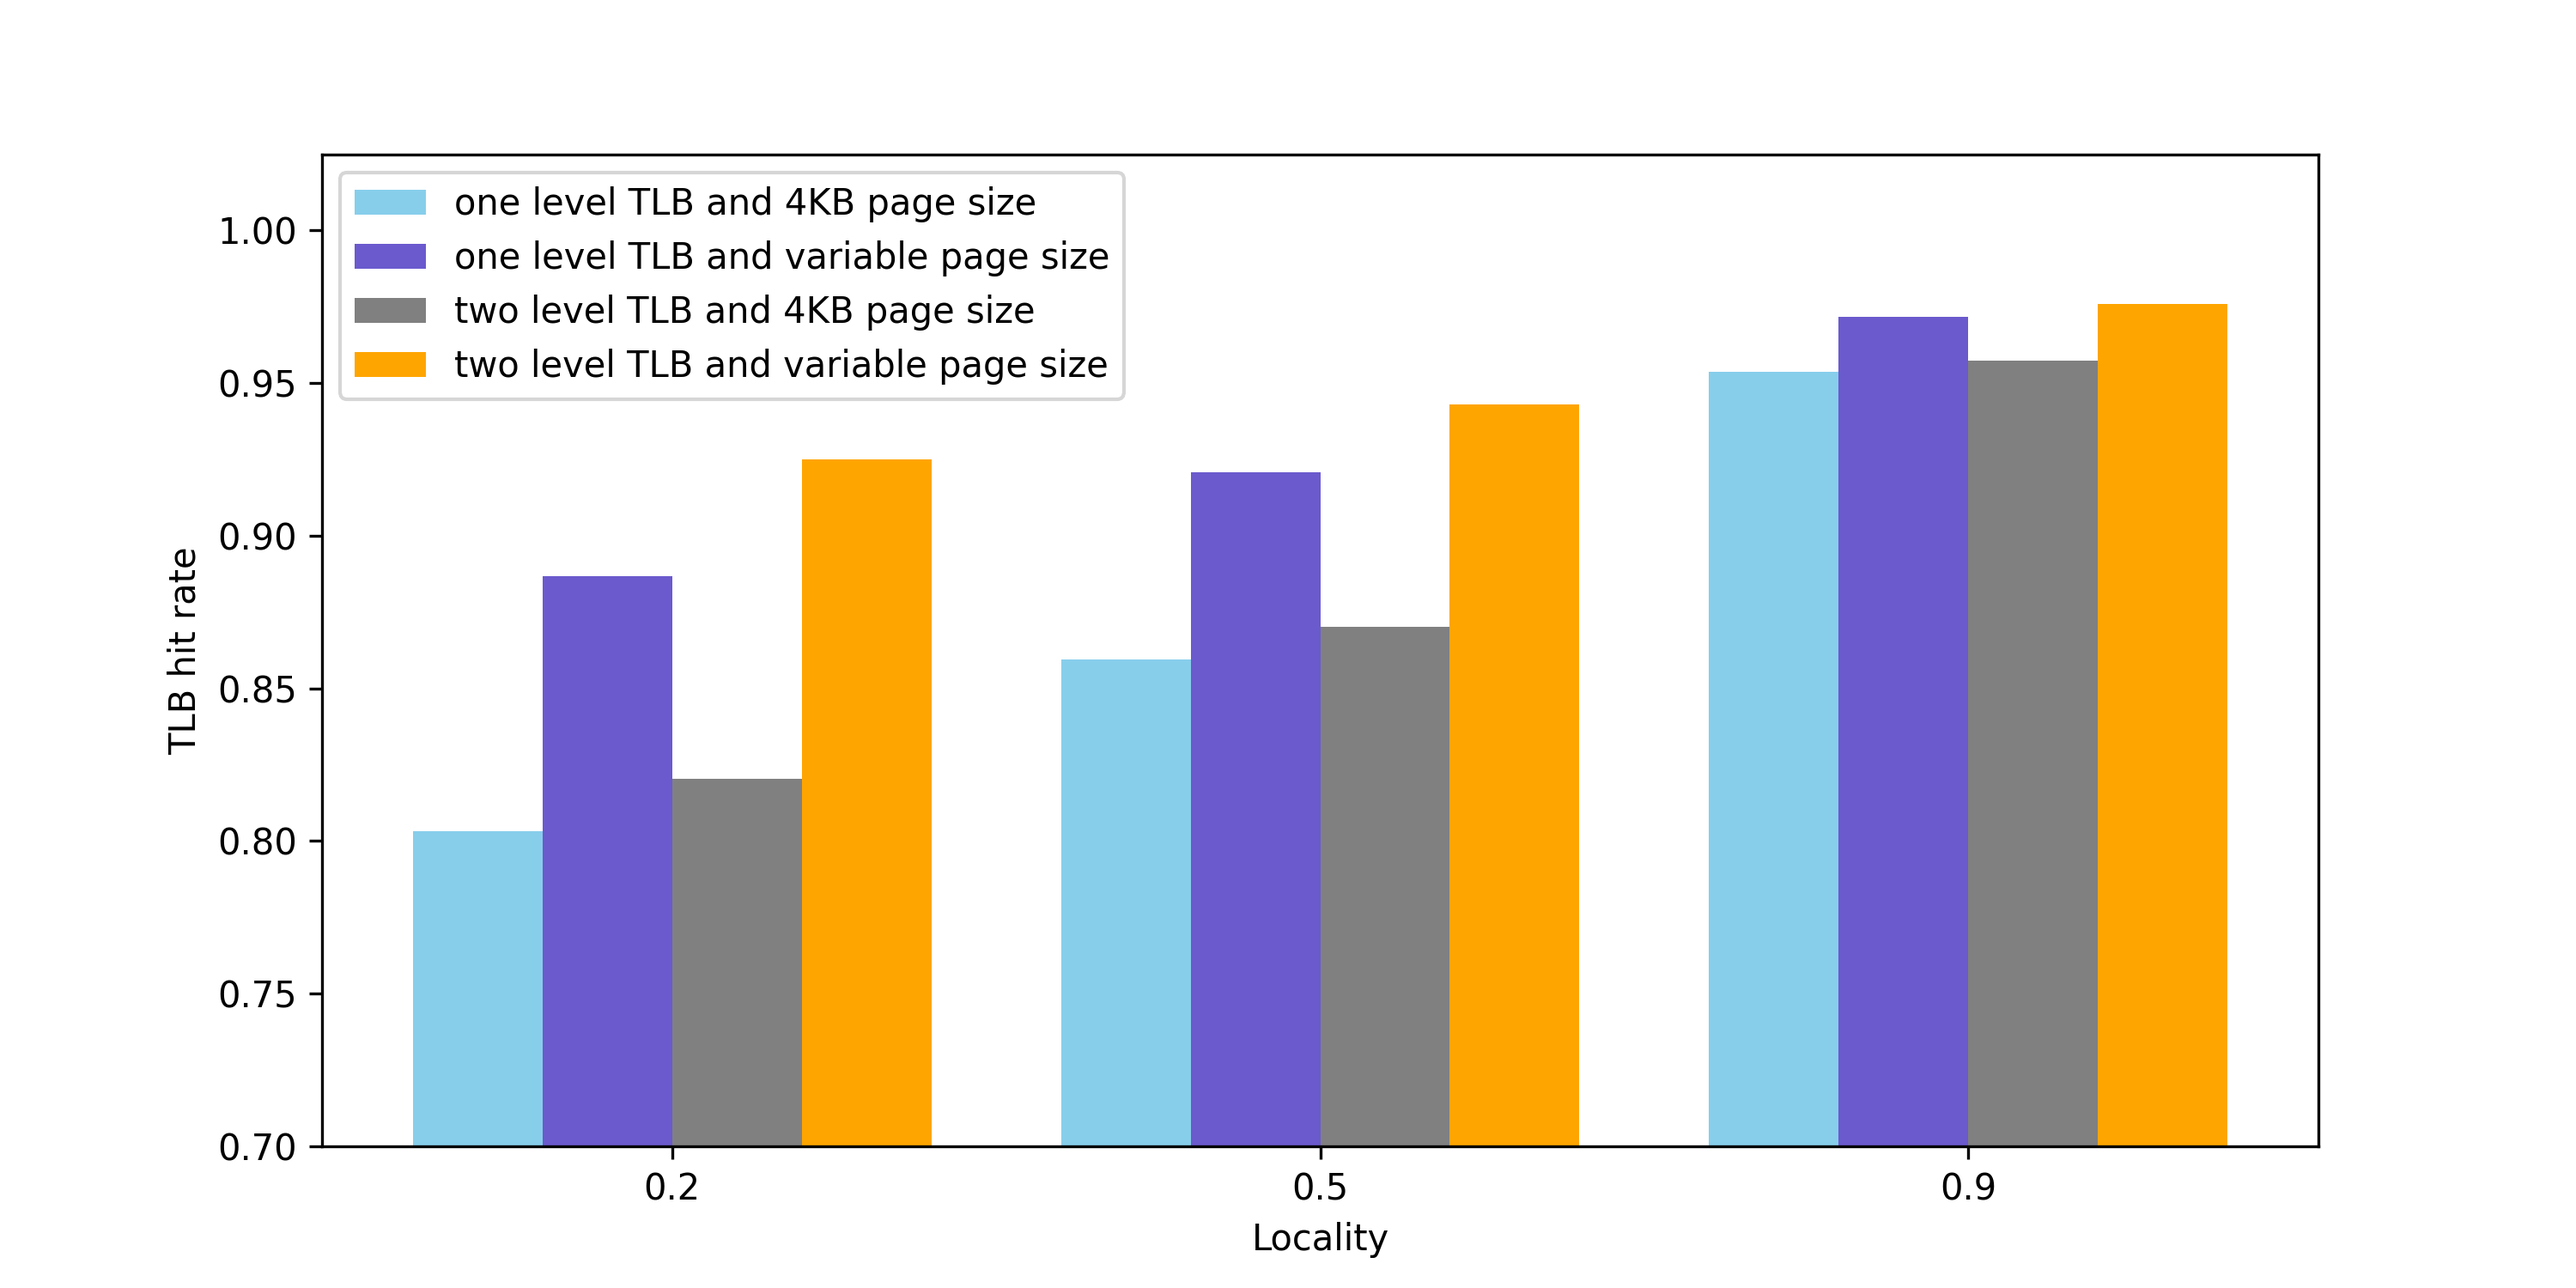
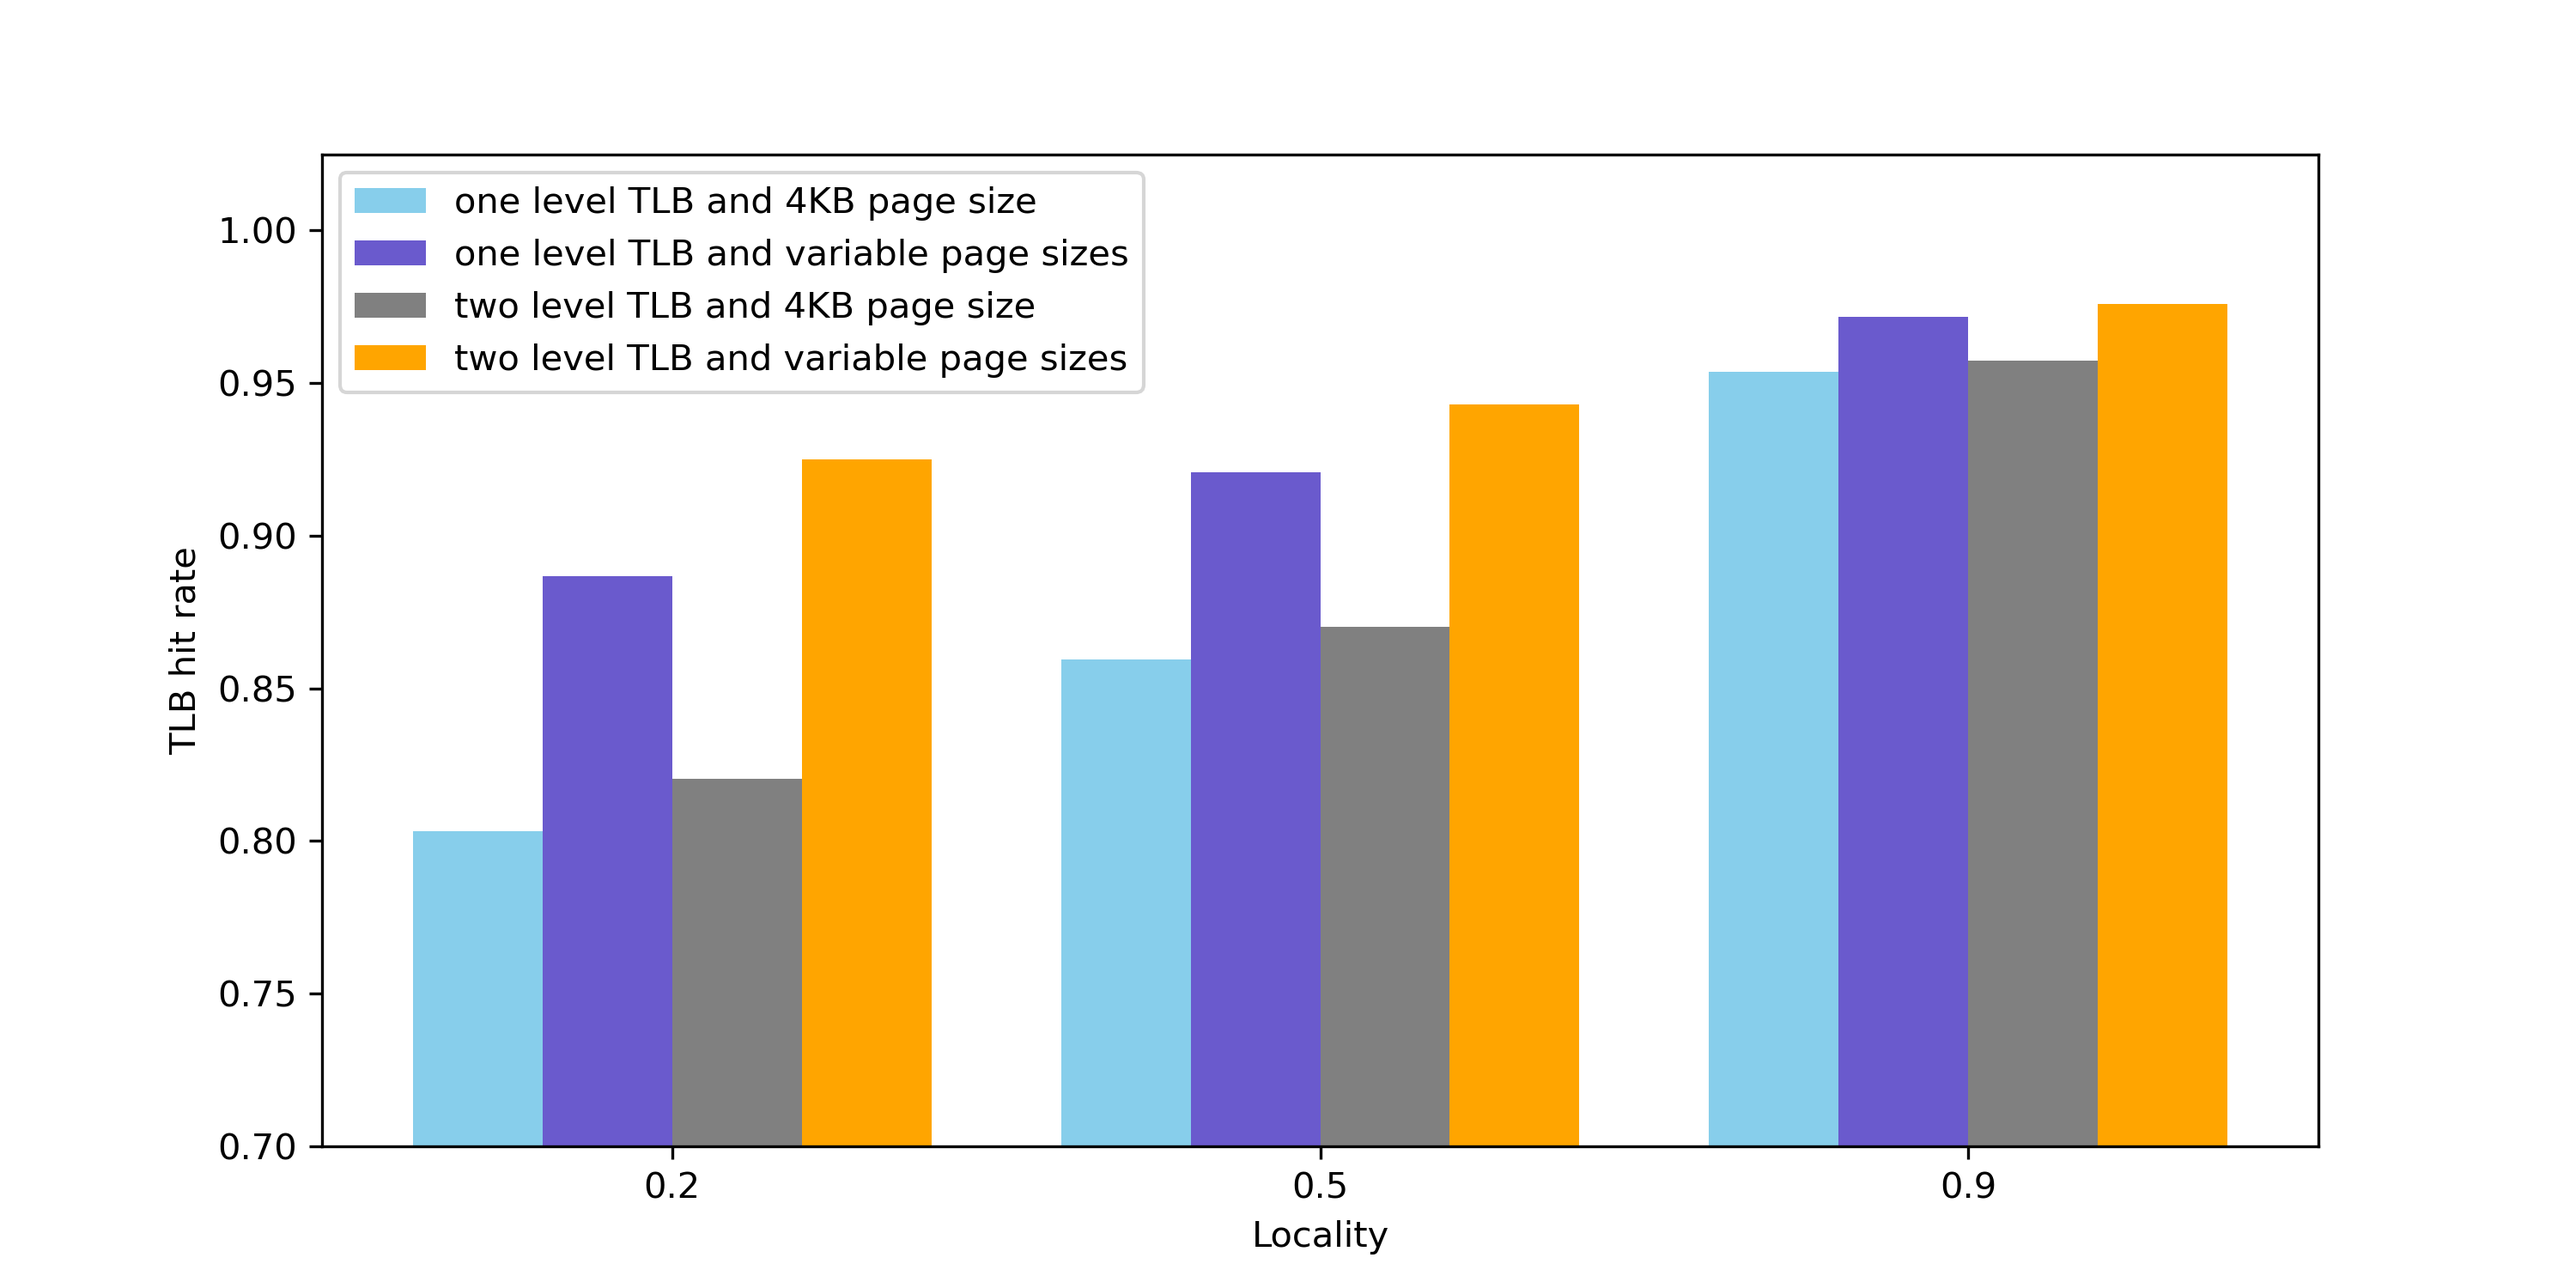
update not present, throw logic_error

Changed region(s): [[0.124, 0.1533, 0.465, 0.3067], [0.496, 0.9507, 0.527, 0.9813]]

diff --git a/plot.py b/plot.py
@@ -42,7 +42,7 @@ def extract_tlb_hit_rates(file_path):
 file_path = 'results_case1.txt'
 rates_with_20_case1, rates_with_50_case1,rates_with_90_case1 = extract_tlb_hit_rates(file_path)
 
-# case 2: one-level TLB and variable page size
+# case 2: one-level TLB and variable page sizes
 file_path = 'results_case2.txt'
 rates_with_20_case2, rates_with_50_case2,rates_with_90_case2 = extract_tlb_hit_rates(file_path)
 
@@ -50,7 +50,7 @@ rates_with_20_case2, rates_with_50_case2,rates_with_90_case2 = extract_tlb_hit_r
 file_path = 'results_case3.txt'
 rates_with_20_case3, rates_with_50_case3,rates_with_90_case3 = extract_tlb_hit_rates(file_path)
 
-# case 4: two-level TLB and variable page size
+# case 4: two-level TLB and variable page sizes
 file_path = 'results_case4.txt'
 rates_with_20_case4, rates_with_50_case4,rates_with_90_case4 = extract_tlb_hit_rates(file_path)
 
@@ -68,9 +68,9 @@ bar_width = 0.2
 
 plt.figure(figsize=(10, 5))
 plt.bar(indices - 1.5*bar_width, case1, bar_width, color='skyblue', label='one level TLB and 4KB page size')
-plt.bar(indices - 0.5*bar_width, case2, bar_width, color='slateblue', label='one level TLB and variable page size')
+plt.bar(indices - 0.5*bar_width, case2, bar_width, color='slateblue', label='one level TLB and variable page sizes')
 plt.bar(indices + 0.5*bar_width, case3, bar_width, color='gray', label='two level TLB and 4KB page size')
-plt.bar(indices + 1.5*bar_width, case4, bar_width, color='orange', label='two level TLB and variable page size')
+plt.bar(indices + 1.5*bar_width, case4, bar_width, color='orange', label='two level TLB and variable page sizes')
 
 
 plt.xlabel('Locality')
@@ -88,7 +88,7 @@ plt.savefig('plot4cases.png', dpi=300)
 bar_width = 0.4
 plt.figure(figsize=(8, 5))
 plt.bar(indices - 0.5*bar_width, case3, bar_width, color='gray', label='4KB page size')
-plt.bar(indices + 0.5*bar_width, case4, bar_width, color='orange', label='variable page size')
+plt.bar(indices + 0.5*bar_width, case4, bar_width, color='orange', label='variable page sizes')
 
 
 plt.xlabel('Locality')

diff --git a/page-table.cpp b/page-table.cpp
@@ -61,10 +61,11 @@ PTE TwoLevelPageTable::translate(uint32_t vaddr) {
     if (!pte.present) {
         // TODO: Call OS swap in method
         // Done
-        os.swapInPage(vpn, pte.page_size);
-        pte = mapToPte[pteIdx];
-        memory_hit += 2;
+//        os.swapInPage(vpn, pte.page_size);
+//        pte = mapToPte[pteIdx];
+//        memory_hit += 2;
         //throw runtime_error("Present bit of pte is 0.");
+        throw logic_error("Present bit of pte is 0.");
     }
     return pte;
 }
